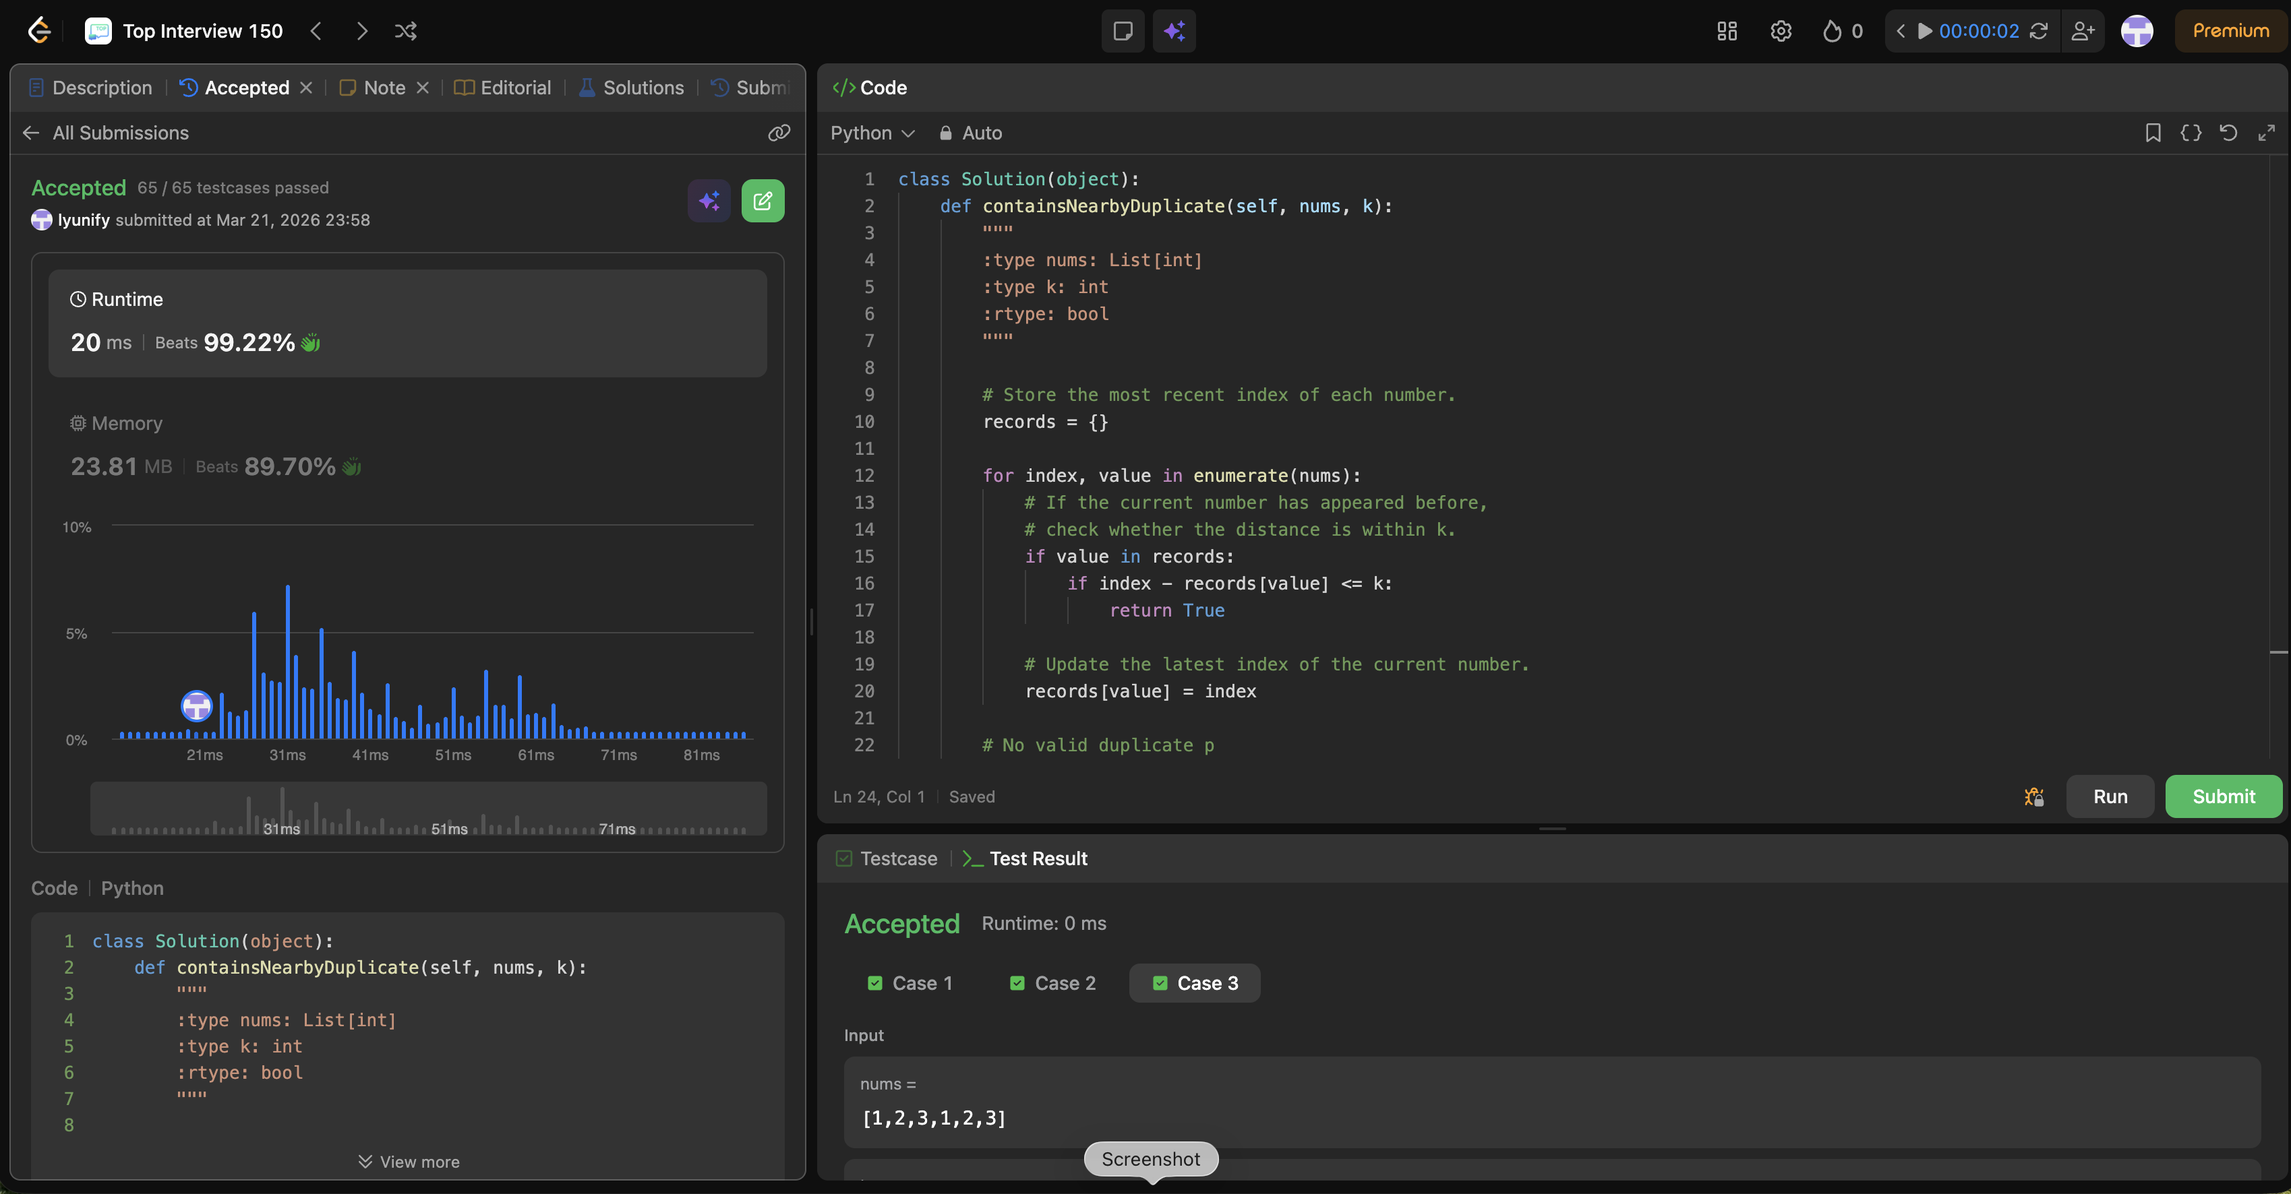
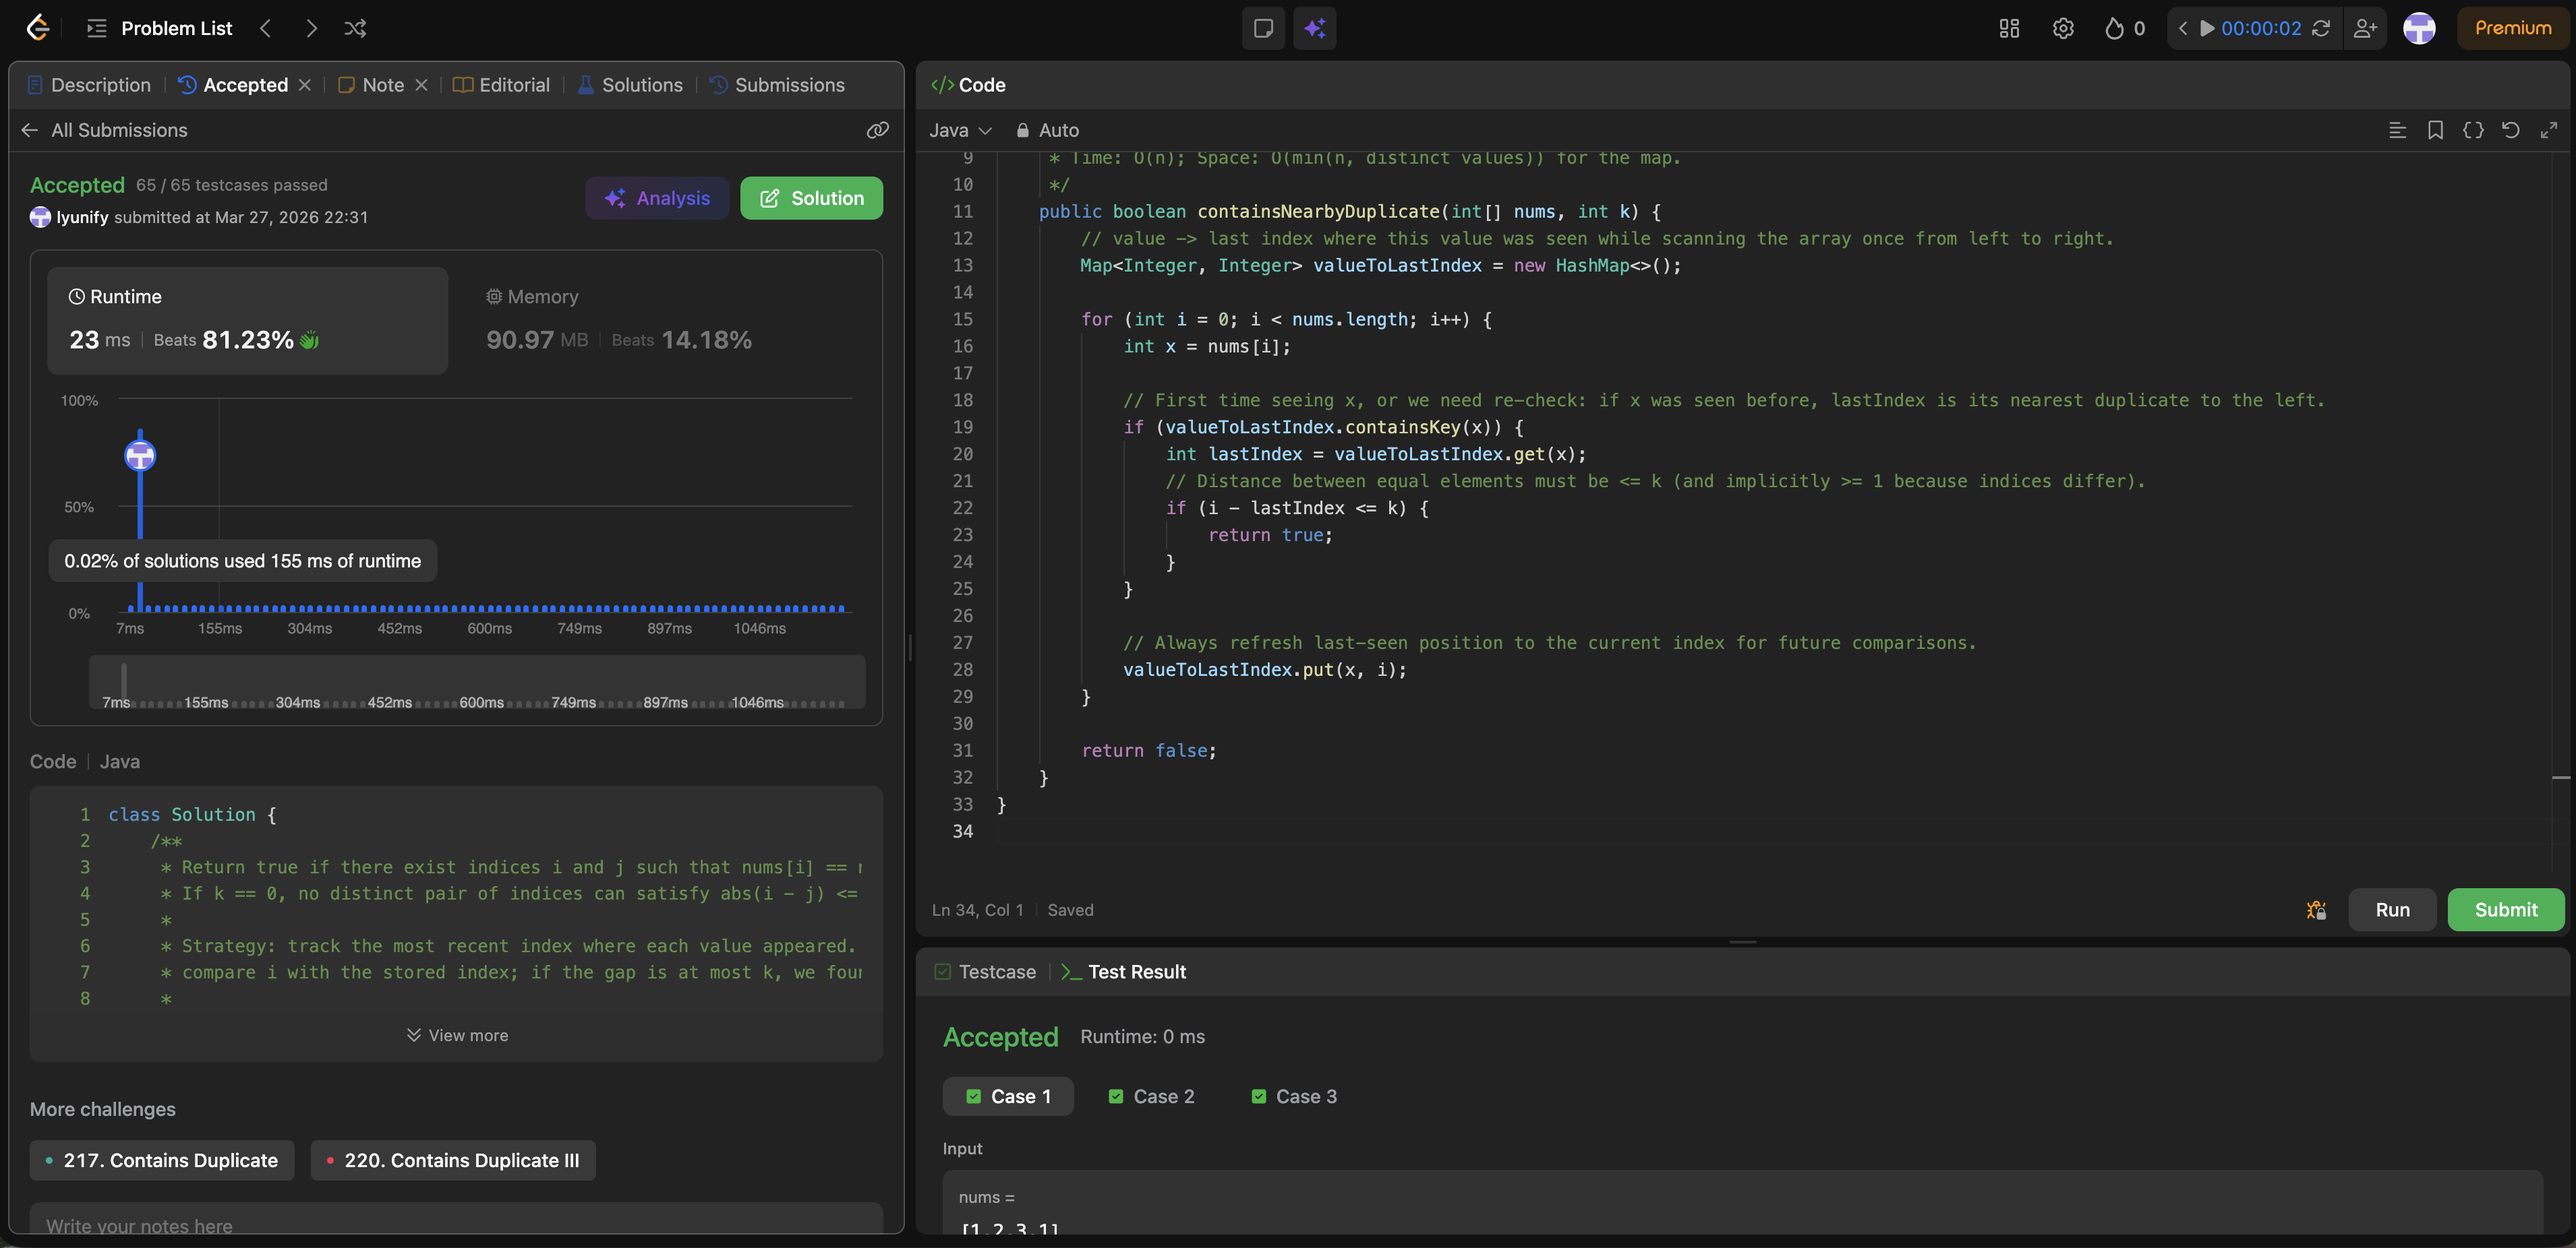
note: 0219-contains-nearby-duplicate (2026-03-27)

diff --git a/hash-table/0219-contains-nearby-duplicate.md b/hash-table/0219-contains-nearby-duplicate.md
@@ -1,8 +1,8 @@
 # 219. Contains Nearby Duplicate
 
 **Difficulty**: Easy<br>
-**Primary Tag**: hash-tabley<br>
-**Secondary Tags**: array, sliding-windowy<br>
+**Primary Tag**: hash-table<br>
+**Secondary Tags**: array, sliding-window<br>
 **LeetCode Link**: https://leetcode.com/problems/contains-duplicate-ii/
 
 ---
@@ -23,9 +23,25 @@ Given an integer array `nums` and an integer `k`, return `true` if there exist t
 - Missed that the dictionary should store the **latest** index of each number (overwrite on each visit).
 - Forgot to update the current value's index after each iteration.
 
+### 2026-03-27
+
+- **Confused k with "window size minus one".** The condition is `|i - j| <= k` (distance between indices). Compute `i - lastIndex` (with `i > lastIndex` while scanning forward) and compare directly to `k`.
+- **Used a frequency map / set only (no index).** A plain "seen set" answers Contains Duplicate I, not II; you must store the last index to measure distance.
+- **Wrong sliding window boundaries.** A fixed window of the last k elements can work, but removing stale indices when a value falls out of the window is easy to get wrong if duplicates are in the multiset. The last-index map approach is simpler.
+- **Reset the map too aggressively.** Clearing the entire structure when moving the window breaks the "nearest previous equal value" idea; you only need the most recent index for each value.
+- **Edge case k == 0.** No pair of distinct indices can satisfy `|i - j| <= 0`, so the answer must be false. Mis-implementing as `< k` or allowing `i == j` silently makes wrong answers.
+- **Brute force (O(nk)) without realizing TLE risk.** Scanning backward up to k steps for every i is worse than the O(n) map; the fix is caching the last position.
+- **Compared values at i and i+k only.** Duplicates might be closer than k but not exactly at offset k; you need any prior index within distance k, which the last-seen index captures.
+
 ## Key Insight
 
 Record `value → latest index` in a dictionary. On each visit, if the value already exists, check whether `index - records[value] <= k`. Always update the stored index afterwards so it stays current for future comparisons.
+
+### 2026-03-27
+
+- **Reduce to "nearest duplicate":** For each `i`, track `value → lastIndex`; if `i - lastIndex <= k`, return true. Any earlier occurrence of the same value is farther away — if the closest repeat is too far, none of the older ones can help.
+- **Alternative sliding window:** Maintain a set of the last k values; on adding `nums[i]`, if it's already in the set, return true; evict `nums[i-k]` when `i >= k`. Time O(n), space O(k).
+- **Complexity:** One pass with hash map: time O(n), space O(min(n, distinct values)).
 
 ## Correct Approach
 
@@ -47,7 +63,7 @@ class Solution(object):
         return False
 ```
 
-**Time Complexity**: O(n)y<br>
+**Time Complexity**: O(n)<br>
 **Space Complexity**: O(n)
 
 ---
@@ -57,3 +73,4 @@ class Solution(object):
 | Date | Outcome | Notes |
 |------|---------|-------|
 | 2026-03-21 | ✅ | Accepted — 20 ms, beats 99.22% runtime; 23.81 MB, beats 89.70% memory |
+| 2026-03-27 | Solved after review | Confused k semantics; used seen-set instead of index map; last-index approach is key — nearest occurrence is always the closest, so older ones never help |
